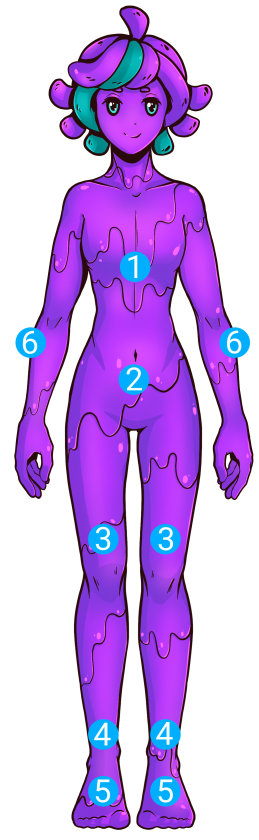
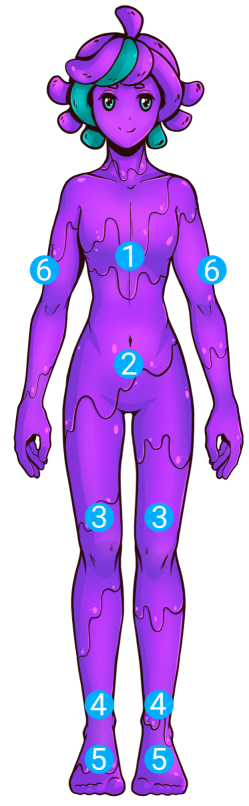
Minor edit to mounting layout image and added WIP battery guideline for official cases

diff --git a/src/diy_set.md b/src/diy_set.md
@@ -62,6 +62,21 @@ The mainboards feature a Micro JST 1.25mm male connector port for attaching a ba
 
 Extensions do not require their own battery, as they use power from the attached Mainboard.
 
+<details>
+<summary><u>Using the official case designs?</u></summary>
+<br>
+As a guideline, the official and modified cases both feature the following battery cavity dimensions:
+<ul>
+  <li>9mm Height (Thickness)</li>
+  <li>43mm Width</li>
+  <li>43mm Length</li>
+</ul>  
+ Some examples of batteries that fit within this are: 
+804040, 604040, 803443, and 852340. <br>
+To use the case without further alterations, we advise staying within these specifications.
+</details>
+<br>
+
 ## Choosing your straps
 You have the option of buying, crafting, and/or customising your straps to your personal preferences. We highly recommend you use elasticised straps with hook and loop fastening, to ensure a comfortable experience and prevent tracker migration. 
 
